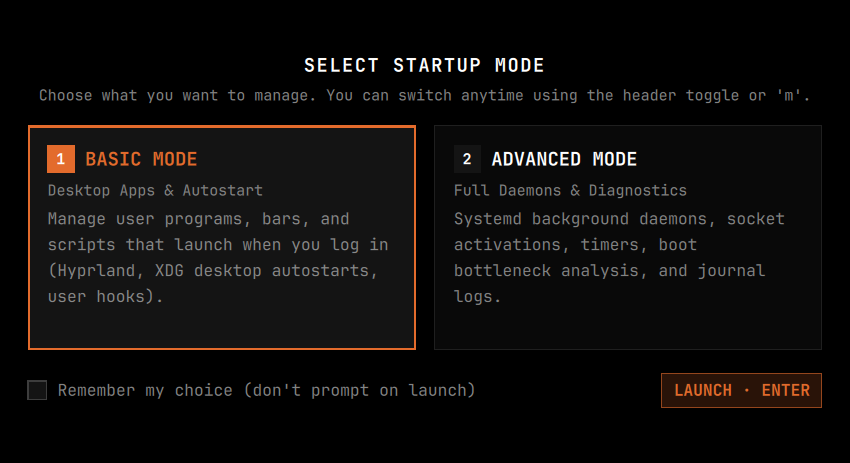
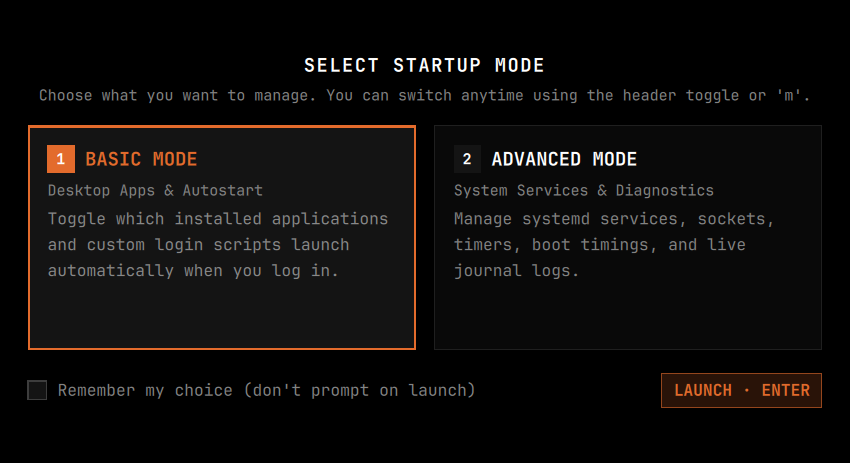
Refine Basic and Advanced mode prompt descriptions and update screenshot

diff --git a/qml/Main.qml b/qml/Main.qml
@@ -1002,7 +1002,7 @@ ShellRoot {
                 width: parent.width
                 wrapMode: Text.WordWrap
                 lineHeight: 1.15
-                text: "Manage user programs, bars, and scripts that launch when you log in (Hyprland, XDG desktop autostarts, user hooks)."
+                text: "Toggle which installed applications and custom login scripts launch automatically when you log in."
                 font.family: OmaTheme.fontFamily
                 font.pixelSize: OmaTheme.fontSmall
                 color: OmaTheme.dim
@@ -1067,7 +1067,7 @@ ShellRoot {
               }
 
               Text {
-                text: "Full Daemons & Diagnostics"
+                text: "System Services & Diagnostics"
                 font.family: OmaTheme.fontFamily
                 font.pixelSize: OmaTheme.fontCaption
                 color: OmaTheme.muted
@@ -1077,7 +1077,7 @@ ShellRoot {
                 width: parent.width
                 wrapMode: Text.WordWrap
                 lineHeight: 1.15
-                text: "Systemd background daemons, socket activations, timers, boot bottleneck analysis, and journal logs."
+                text: "Manage systemd services, sockets, timers, boot timings, and live journal logs."
                 font.family: OmaTheme.fontFamily
                 font.pixelSize: OmaTheme.fontSmall
                 color: OmaTheme.dim
